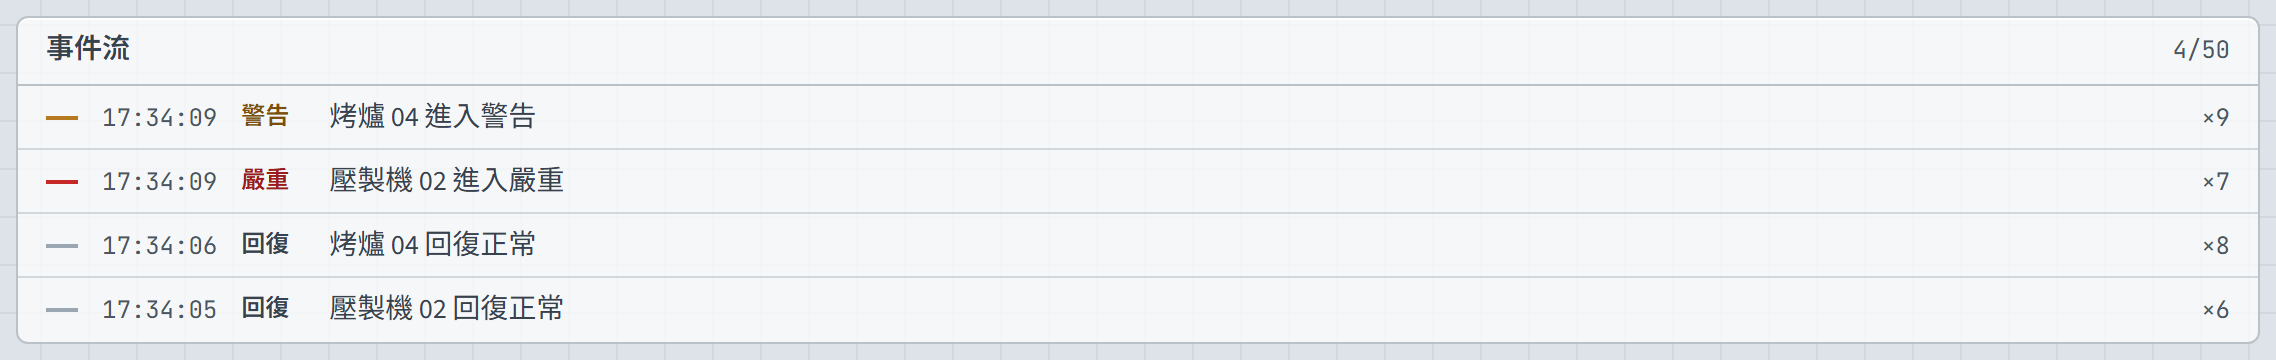
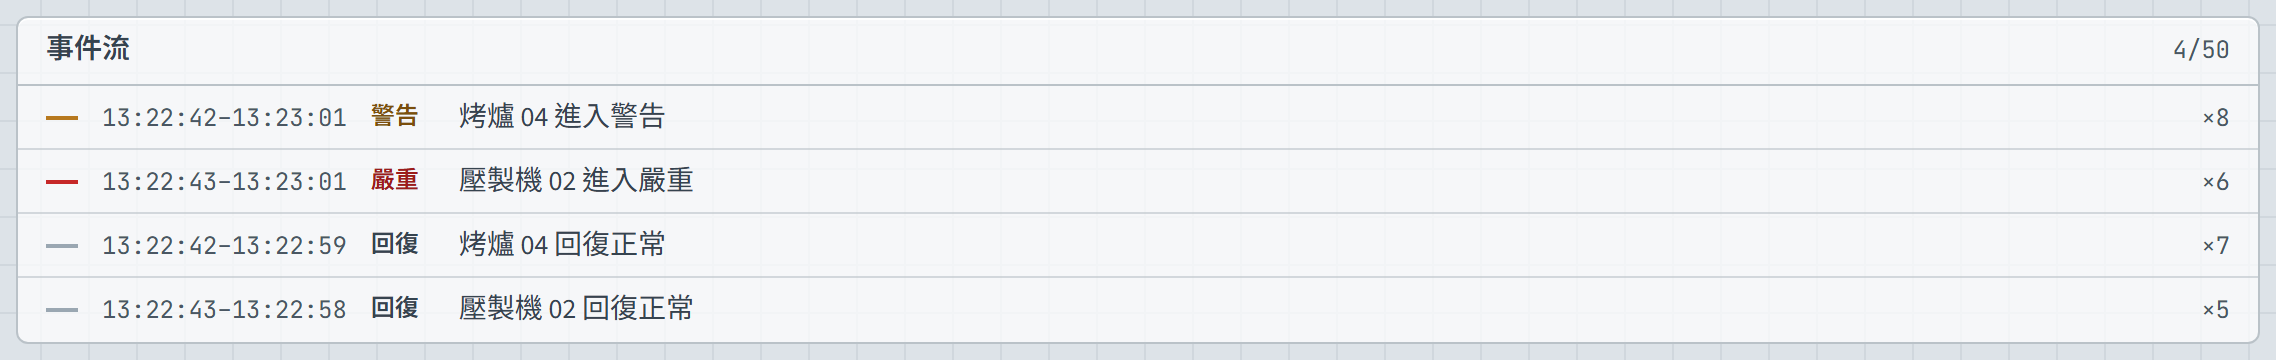
feat(013): [Phase 10: US7] README 截圖單輪重拍 14 張與圖說校正；T065–T073 勾選
- screenshots.cjs --readme 單輪產出 14 張（Gemini 1 次、快取 2 次、503 攔截失敗態、routeWebSocket 斷線態）；dark-theme 改為快取態
- README 22 秒劇本表與功能展示 §1／§3／§4／§5／§7／§8／§9–§14 依四輪修正改寫（合併比與液柱、AI：chip、確認鈕、起訖事件、非 modal 單列 sheet、再次診斷與對比橫條）
- tasks.md：T065／T066／T070／T073 勾選與各輪裁決紀錄

diff --git a/specs/013-ui-redesign/tasks.md b/specs/013-ui-redesign/tasks.md
@@ -205,10 +205,10 @@ pnpm monorepo：本 feature 只動 `apps/web/`（`src/shared/`、`src/domains/mo
 - [X] T067 [US7] 更新 `apps/web/PRODUCT.md`：Product Purpose（Diagnose／drawer／Cached／Retry 等 UI 術語改為繁中現況用語）、Capabilities and Constraints（token 值落在 `src/styles/theme.css`、`tailwind.config.ts` 只引用變數）、Positioning（背壓 strip 取代 TopBar 徽章）、Operating Context（側欄內容、Copilot 面板預設收合與偏好、三 stage 拓樸、手機機群健康摘要條、事件流合併與可點擊）、Accessibility 字級改為 12px，確認或移除所有 [推定] 標記
 - [X] T068 [US7] `/speckit-constitution`：第 II 條「視覺」條目改為「一律依 `apps/web/PRODUCT.md` 與 `apps/web/DESIGN.md`」，「開發工作流程與品質門檻」段對 design-spec 的引用改為「依 `apps/web/PRODUCT.md`『第一屏就是工作台』」，版本 1.5.0 → 1.6.0，兩處修訂皆記入 Sync Impact Report；依憲章 Governance 檢查 `.specify/templates` 相依模板有無 design-spec 引用並記入 Sync Impact Report；同步 `CLAUDE.md`「真實來源」段的視覺條目
 - [X] T069 [US7] `apps/web/design/design-spec.md` 檔頭加退役註記（FR-036 文字）；`git rm -r apps/web/design/refs`（含 `_sources/`）；全文搜尋 `design-spec.md` 與 `refs/` 的引用並逐處改寫或標示歷史，範圍包含 README、指南、CLAUDE.md、`apps/web/src` 內元件與測試的註解及 describe 名稱、`apps/web/index.html`、`apps/web/tailwind.config.ts`；`specs/` 與 `docs/*-research-review*.md` 屬歷史工件豁免
-- [X] T070 [US7] 完成 `apps/web/scripts/screenshots.cjs --readme`：依劇本產出 `docs/screenshots/` 12 張功能截圖（light）＋ `dark-theme.png`、`topology.png`；README 「功能逐項展示」圖說與術語改中文對照、22 秒 demo 劇本依新 UI 改寫（背壓 strip、串流骨架、快取耗時對比的位置，供 quickstart 場景 16 / SC-008）、設計連結指向 `apps/web/PRODUCT.md` 與 `apps/web/DESIGN.md`、「快速開始」加 `playwright-core` 與本機 Chromium 路徑說明、版本註記更新。Phase 10 實作裁決（2026-10-16）：失敗態以 `page.route` 把該分頁的 `POST /diagnoses` 攔成 503、斷線以 `page.routeWebSocket` 代理 `/ws` 切斷並拒絕重連（皆不關 api、不停 worker，回補 research R11 與指南 §15.6）；搜尋截圖查詢「p」（前處理欄空狀態）；fleet-health 含最近異常摘要列；三張裁切自 monitoring-states 全景同一瞬間；demo 影片不重錄、留待下一次 release 決定。實拍三輪：copilot-streaming／completed／cached 取自第 1 輪，dark-theme 取自第 2 輪（面板為失敗態，圖說已照實改寫），其餘 10 張取自第 3 輪；第 2、3 輪第一次診斷因 Mongo 脈絡查詢逾時（MaxTimeMSExpired）失敗，環境穩定後宜整輪重拍一次以符合 SC-012「一次產出」
+- [X] T070 [US7] 完成 `apps/web/scripts/screenshots.cjs --readme`：依劇本產出 `docs/screenshots/` 12 張功能截圖（light）＋ `dark-theme.png`、`topology.png`；README 「功能逐項展示」圖說與術語改中文對照、22 秒 demo 劇本依新 UI 改寫（背壓 strip、串流骨架、快取耗時對比的位置，供 quickstart 場景 16 / SC-008）、設計連結指向 `apps/web/PRODUCT.md` 與 `apps/web/DESIGN.md`、「快速開始」加 `playwright-core` 與本機 Chromium 路徑說明、版本註記更新。Phase 10 實作裁決（2026-10-16）：失敗態以 `page.route` 把該分頁的 `POST /diagnoses` 攔成 503、斷線以 `page.routeWebSocket` 代理 `/ws` 切斷並拒絕重連（皆不關 api、不停 worker，回補 research R11 與指南 §15.6）；搜尋截圖查詢「p」（前處理欄空狀態）；fleet-health 含最近異常摘要列；三張裁切自 monitoring-states 全景同一瞬間；demo 影片不重錄、留待下一次 release 決定。第一版實拍分三輪拼湊（第 2、3 輪第一次診斷因 Mongo 脈絡查詢逾時 MaxTimeMSExpired 失敗，dark-theme 為失敗態）；2026-10-17 於 T073 四輪修正後單輪重拍 14 張（一次 `--readme` 14／14 寫入、Gemini 實際呼叫 1 次、其餘 2 次命中快取；dark-theme 恢復為與 copilot-cached 同一畫面），README 劇本表、§1／§3–§5／§7–§14 圖說與技術亮點 §8 依新畫面校正；劇本只補面板狀態 chip「未診斷」對照
 - [X] T071 [P] [US7] `docs/Flow-Gatekeeper-SDD-完整實作指南.md` §15.6 新增「013 UI 全面改版」段：視覺真實來源切換、雙主題、拓樸、背壓 strip（60 秒視窗比值）、文案語言、鍵盤；註明新增 `playwright-core` 推翻了 `MachineNodeCard.css.test.ts` 註解記載的「以 CSS cascade 測試取代 Playwright 截圖、不新增瀏覽器相依」取捨，並同步更新該測試檔註解。UI 術語中文對照（FR-038）只改**現況描述段**：指南 §15.6 新段與其中引用的現況說明；README 的術語由 T070 處理（「功能逐項展示」與「快速開始」）。歷史段落（既有 feature 章節、`docs/*-research-review*.md` 審查報告）依「回補不重寫歷史」豁免
 - [X] T072 [P] [US7] `CHANGELOG.md` `[Unreleased]`：使用者可見變更（視覺世界、light 預設／dark 切換、stage 拓樸、背壓 strip、串流骨架與快取耗時、異常 latch（確認後劃線）、事件合併與可點擊、面板預設收合與偏好、鍵盤快捷鍵、UI 文案繁中、README 截圖重拍）；契約小節註明「無變更」；相容性注意：localStorage 新 key、`playwright-core` devDependency
-- [ ] T073 [US7] 重跑 `/impeccable critique`（雙 agent，目標 ≥ 30/40），快照存 `apps/web/.impeccable/critique/`；若未達標，依其 priority issues 修正後再跑一次（上限兩輪）。第一輪結果（2026-10-16，快照 `2026-10-16T09-37-54Z__src-app-vue.md`）：**28/40**（基準 20），P0 0、P1 4、P2 2；偵測器原始碼 0 筆、live URL 僅 `codex-grid-background`（契約允許的格線，誤報）與 `flat-type-hierarchy`（390 寬升 warning）。使用者裁決：第一輪修正納入 A 比值語意（三讀數同 60 秒視窗、最高水位短線、白話 tooltip）、B 完成態「再次診斷」鈕＋快取對比橫條、C 工具列快捷鍵可見入口、D 推擠式面板門檻 1024→1280（1024–1279 沿用 bottom-sheet，推翻 Phase 9 的 1024 裁決）、E 事件 `firstTs` 區間與固定合併窗、F 手機標題階梯；**G 卡片迷你量筒留後**（改動大、需色弱驗證與全面重拍）
+- [X] T073 [US7] 重跑 `/impeccable critique`（雙 agent，目標 ≥ 30/40），快照存 `apps/web/.impeccable/critique/`；若未達標，依其 priority issues 修正後再跑一次（上限兩輪）。第一輪結果（2026-10-16，快照 `2026-10-16T09-37-54Z__src-app-vue.md`）：**28/40**（基準 20），P0 0、P1 4、P2 2；偵測器原始碼 0 筆、live URL 僅 `codex-grid-background`（契約允許的格線，誤報）與 `flat-type-hierarchy`（390 寬升 warning）。使用者裁決：第一輪修正納入 A 比值語意（三讀數同 60 秒視窗、最高水位短線、白話 tooltip）、B 完成態「再次診斷」鈕＋快取對比橫條、C 工具列快捷鍵可見入口、D 推擠式面板門檻 1024→1366（1024–1365 沿用 bottom-sheet，推翻 Phase 9 的 1024 裁決；第一版定 1280，交叉審查算出 1280–1365 推擠後拓樸仍 < 708px 單欄，使用者 2026-10-17 裁決改 1366）、E 事件 `firstTs` 區間與固定合併窗、F 手機標題階梯；**G 卡片迷你量筒留後**（改動大、需色弱驗證與全面重拍）。第一輪修正落地（2026-10-17，K1／K2／K3 三單位＋乾淨 Opus 交叉審查 medium 2／low 6 全修）：A 三讀數同 60 秒視窗＋`Graduation` 最高水位短線＋白話 aria-label；B `DiagnosisResultView` `actions` slot 放「再次診斷」次要鈕、快取態兩條同刻度橫條（只有一筆紀錄不畫）、閒置摘要補產能；C `TopBar` 快捷鍵說明鈕（`data-fg="shortcut-help-toggle"`）＋診斷鈕 `aria-describedby` 含「診斷進行中」；D 自訂 screen `desk` 1366；E `firstTs` 固定 60 秒窗、`data-fg="event-time"` 起訖；F `body` base 14px、`h1` Title 階、stage 標題 `<md` 16px（390／1280 的 `flat-type-hierarchy` 消失）；卡片診斷鈕 `aria-keyshortcuts="d"`。驗證：web 60 檔 1019 則、contracts diff 空、detect `[]`。第二輪結果（2026-10-17，快照 `2026-10-17T03-32-51Z__src-app-vue.md`）：**29/40**，偵測器原始碼 0、URL 只剩格線 advisory、overlay 三情境乾淨、10 份量測 0 violation；新 P1 三條（暫停狀態不可見、卡片 id 列在診斷 chip 出現時被截、<1366 閒置 sheet 重複數值並遮住選取卡）、P2 兩條（比值無就地說明與液柱、確認詞彙／pill 誤觸）。**使用者裁決（2026-10-17）：放寬「上限兩輪」，加做第三輪修正＋critique**，納入 P1 三條、P2 兩條、minor「閒置→未診斷」與「已完成」chip 中性色。第三輪修正落地（2026-10-17，L1／L2／L3＋乾淨 Opus 交叉審查 medium 3／low 3 全修）：L1 暫停橫幅「已暫停畫面更新 · 暫停於 HH:mm:ss」＋「恢復」鈕（`shared/lib/status-banner.ts` 純函式）、暫停鈕固定文字＋`aria-pressed`、背壓「已暫停」pill、標籤「合併比 · 訊息 ÷ 批次」、`Graduation` 實心液柱 `bg-accent/25`、走勢線改單秒合併比一條（暫停期間與恢復後 2 筆樣本標無效並排除於平均／最高水位／走勢線，上限穩健值離群釘頂）、刪 `ratePeak`；L2 卡片 id 列獨佔第二列（相對時間 ≥ 3 秒才顯示）、chip 改圖示＋嚴重度、異常 pill 不可互動（`latch-clear`→`latch-mark`）、rail「確認」＋Check 圖示、`aria-keyshortcuts="x"`、嚴重越界刻度全填實；L3 閒置 sheet 精簡至 144px、`max-w-xl`、`reveal-above-sheet` 捲動、非 modal 閒置 sheet（`aria-modal="false"`、觸控 focusLost 不接手）、`update:engaged` emit 驅動遮罩、「未診斷」、「已完成」chip 中性。已知限制：1366 卡寬 220 時「停滯徽章＋快取 chip」同現仍截 id。驗證：web 62 檔 1069 則、contracts diff 空、detect `[]`。第三輪結果（2026-10-17，快照 `2026-10-17T04-37-58Z__src-app-vue.md`）：**29/40**（趨勢 20→28→29→29），偵測器與 overlay 五情境乾淨；第二輪 P1／P2 全部確認落地；新 P1：< 1366 閒置 sheet 蓋住事件流、卡片三種時態共用「正常／警告／嚴重」；P2：選取嚴重卡被深青覆蓋、768 堆疊首屏 1.5 台、合併比無常駐白話。**使用者裁決（2026-10-17）：第四輪只做五項小改再 critique 一次**——sheet 併一列＋主區依 sheet 高度留白、chip／pill 時態用詞、選取態改外側 outline 保留狀態底色、合併比常駐白話一行＋刻度 1:1 錨點、用語統一（丟棄單位／連線中斷）；768 堆疊 2 欄留後續。第四輪修正落地（2026-10-17，M1／M2／M3＋交叉審查 high 1／medium 1／low 4 全修）：M1 閒置 sheet 單列約 51px、主區與 rail 依 sheet 實際高度留白（`--fg-bottom-reserve`、ResizeObserver、只在 `sheetCompact && !engaged` 採用量測值、modal 時凍結、desk+ 歸零）、peek 條「AI 診斷」改 sr-only、`:connection` 接線；M2 chip「AI：嚴重度」方角 tag 無圖示、`latchText()` 共用過去式「曾嚴重 · N 秒前回復」、選取態改外側 2px outline 保留狀態 border／bg（選取＋focus 6px 雙線）；M3 走勢線左側常駐白話行「每幀合併約 N 則 · 近 60 秒最高 X」（aria-hidden）、刻度 1:1 錨點、丟棄「N 則」統一、「已斷線／重新連線中」pill。驗證：web 62 檔 1087 則、contracts diff 空、detect `[]`。**使用者裁決（2026-10-17）：第四輪 critique 為最後一次評分、只留紀錄，之後不再追分**。**最終結果（快照 `2026-10-17T05-27-46Z__src-app-vue.md`）：29/40，趨勢 20→28→29→29→29；門檻 30 未達、以使用者裁決結案**。偵測器原始碼 0、URL 僅契約允許的格線 advisory、overlay 五情境乾淨（1024 閒置 sheet 51px／`aria-modal="false"`／無遮罩／主區留白 51px）、10 份量測 0 violation。四位獨立審查者的 P1 皆不重疊且各輪都已修掉；H10 四輪皆 2 分（概念說明只靠 tooltip）是分數停滯的結構性原因。**留後續 feature 的待辦**（已回補指南 §15.6）：768 高視窗卡片密度（第二排裁切）、AI 結果與現況脫鉤的交代、側欄確認鈕改文字鈕＋「已確認」tag、桌機兩顆「診斷」主鈕降級、分頁 title／favicon 告警、卡片三線刻度改迷你量筒（G）、768 堆疊 2 欄、處理步驟清單小標、零值計數中性色、`humanizeError` 英文後援
 
 **Checkpoint**: SC-002、SC-008、SC-011、SC-012、SC-013 可驗；真實來源一致。
 
@@ -221,7 +221,7 @@ pnpm monorepo：本 feature 只動 `apps/web/`（`src/shared/`、`src/domains/mo
 - [ ] T074 [P] 清理 `apps/web/.impeccable/`：只保留 `surfaces/`、`critique/`、`design.json`、`mocks/decision/assigned.html`（其餘草圖與 `payload.json` 刪除）；`.gitignore` 加 `apps/web/.impeccable/questions/` 與 `apps/web/.impeccable/hook.cache.json`
 - [ ] T075 [P] 刪除不再使用的程式碼與 token：`card-style.ts` 中的 inset ring；複跑 T009 的舊 token grep 確認仍為 0 命中（`text-2xs` 已於 T009 清理）；確認 `TopologyCanvas`、`BackpressureBadge` 已無殘留引用（檔案已於 T036／T041 刪除）；`pnpm --filter web lint` 零警告；**Phase 9 提醒**：`matchMedia` 的 `useMediaQuery` 寫法在 `TopBar.vue`、`StageTopology.vue`、`App.vue` 各有一份，收成 `shared/composables/useMediaQuery.ts`（含測試）；`ShortcutHelp.vue` 與 `AnomalyOverlay.vue` 的焦點陷阱重複，可抽 `useFocusTrap`（iOS Safari 點按鈕不給焦點時的還原後備一併處理）；`shadow-sheet` 用在由上而下的面板時陰影方向相反，考慮加 `shadow-panel` token
 - [ ] T076 全棧檢查：`pnpm check`（契約 lint、typecheck、lint、test）與 `pnpm build` 綠；`pnpm --filter web test` 含新增 ≥ 11 個純函式測試檔；`git diff develop -- packages/contracts asyncapi.yaml apps/api apps/worker` MUST 為空；grep `apps/web/dist/` 無 direction contract 字樣（`THESIS`、`OWN-WORLD`、`FIRST VIEWPORT`、`Lab Glass`）
-- [ ] T077（Phase 9 提醒：iOS Safari 覆蓋式搜尋在 `nextTick` 後 `focus()` 可能不跳出虛擬鍵盤，須實機或模擬器驗一次；已知限制：rail 拉到 420px＋lg 面板展開＋1024 寬時工具列僅 214px 會溢出，不在驗收 viewport 預設狀態內）依 [quickstart.md](./quickstart.md) 場景 1–16 逐項驗收並在 quickstart 加「驗收總表」記錄結果與日期（場景 4 須記錄 20 ms mock、60 秒的實測每秒提交率與顯示器更新率，供 SC-005）；SC-001～SC-014 逐條勾選於 spec.md
+- [ ] T077（Phase 9 提醒：iOS Safari 覆蓋式搜尋在 `nextTick` 後 `focus()` 可能不跳出虛擬鍵盤，須實機或模擬器驗一次；已知限制：rail 拉到 420px＋推擠式面板展開＋1366 寬時工具列約 574px 會進 compact 形態，不在驗收 viewport 預設狀態內；T073 把推擠門檻提到 1366 後原「1024 寬工具列 214px」情境已不存在）依 [quickstart.md](./quickstart.md) 場景 1–16 逐項驗收並在 quickstart 加「驗收總表」記錄結果與日期（場景 4 須記錄 20 ms mock、60 秒的實測每秒提交率與顯示器更新率，供 SC-005）；SC-001～SC-014 逐條勾選於 spec.md
 - [ ] T078 更新 `specs/013-ui-redesign/spec.md` Status 為已完成、`CLAUDE.md` 管理區段改為「目前無進行中的 SDD feature；最近一次完成的是 013」；`/speckit-analyze` 複跑確認無跨工件矛盾；準備 `git merge --no-ff` 回 develop（push 前先與使用者確認）
 
 ---
